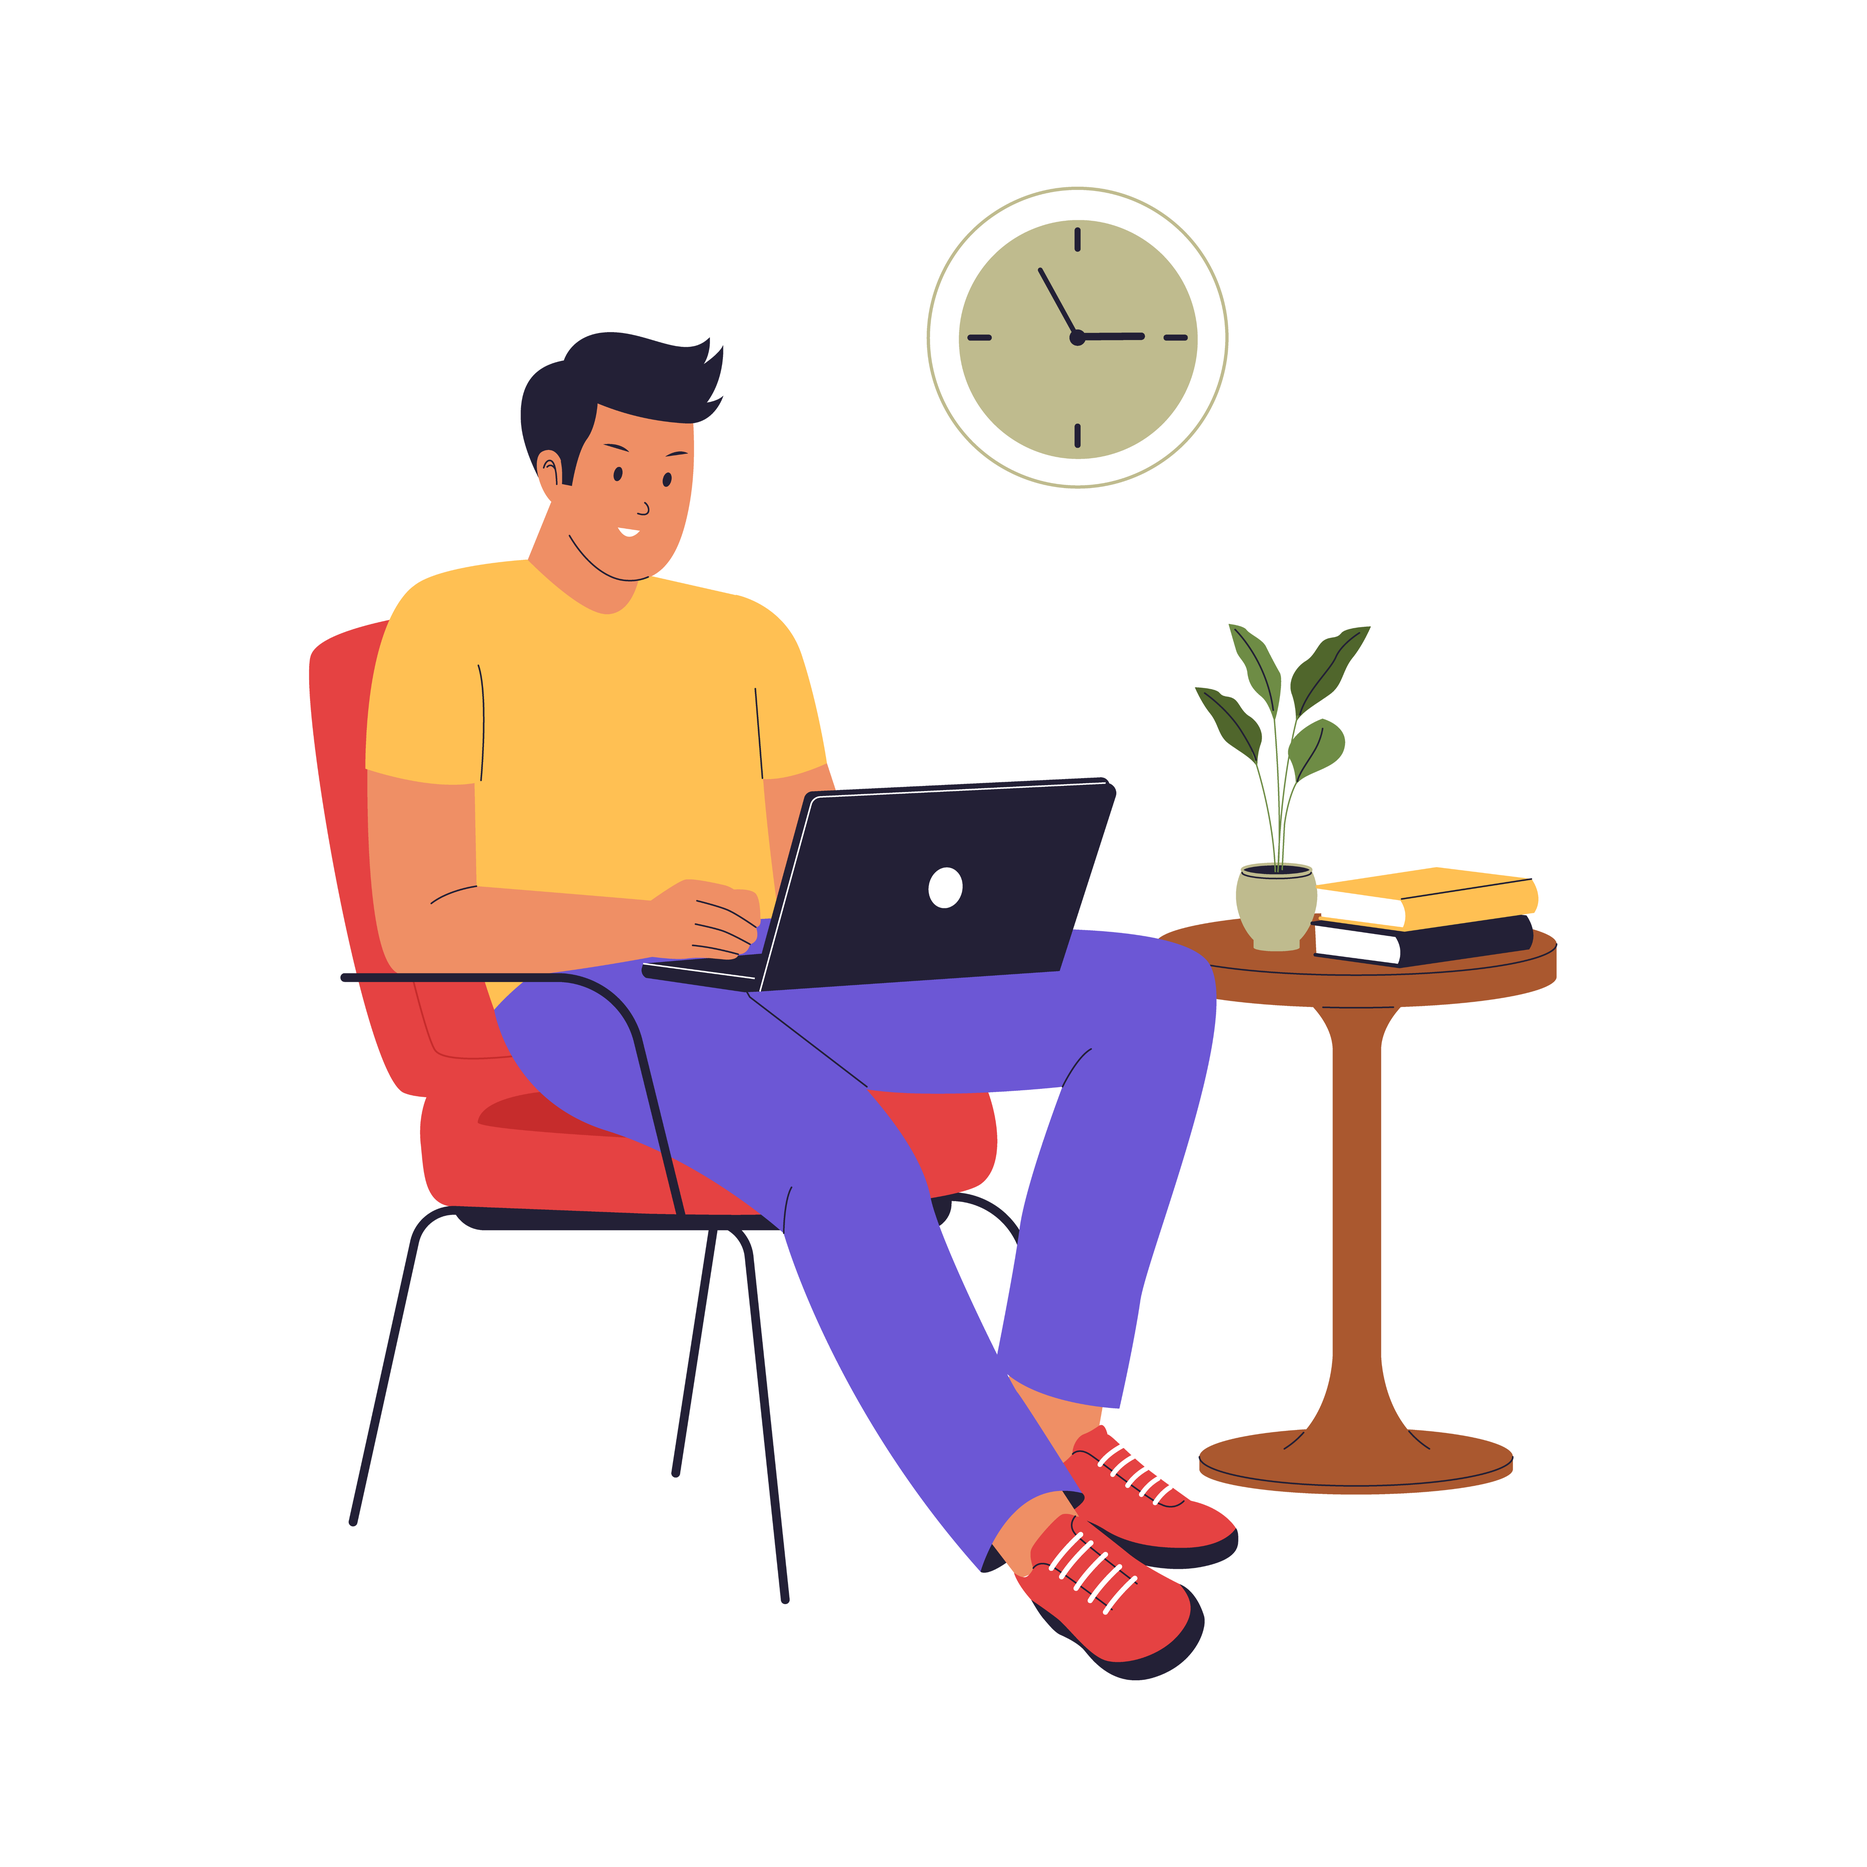
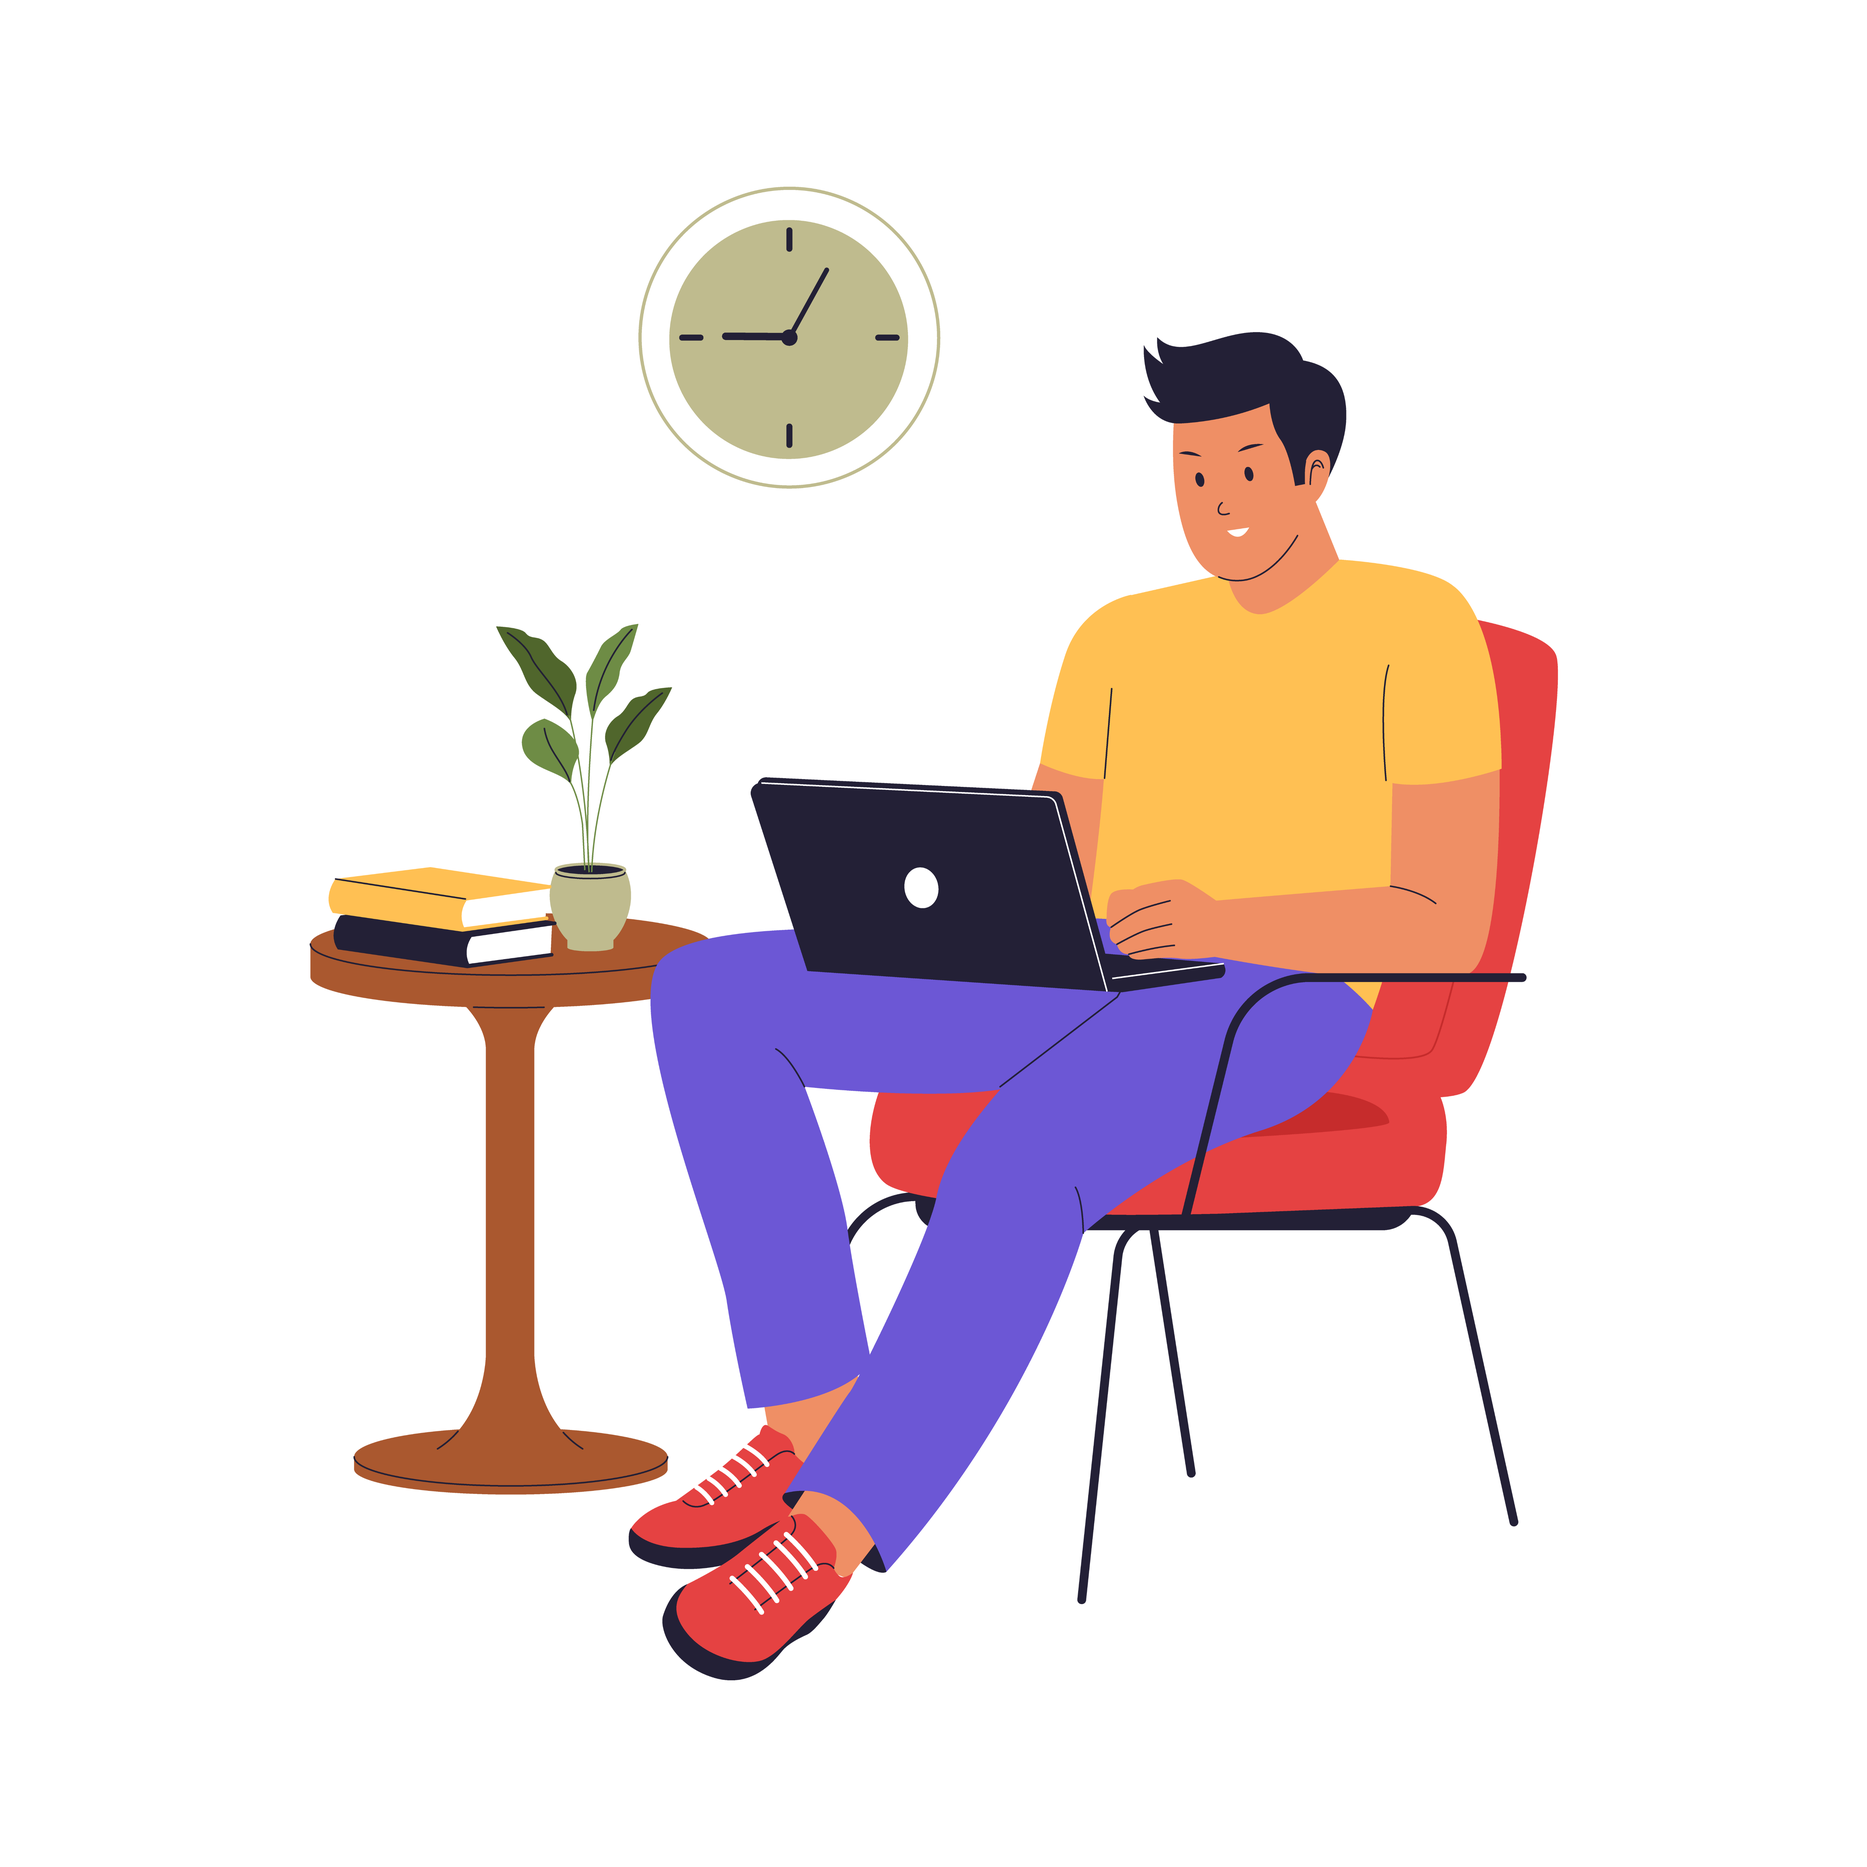
Refactor components and styles for improved readability and consistency

Changed region(s): [[0.156, 0.0936, 0.8424, 0.9048], [0.468, 0.468, 0.5304, 0.4992]]

diff --git a/src/components/navbar.tsx b/src/components/navbar.tsx
@@ -1,9 +1,5 @@
-"use client";
-
 import Image from "next/image";
 import Link from "next/link";
-import { usePathname } from "next/navigation";
-import { useState } from "react";
 
 const navLinks = [
   { name: "Home", href: "/" },
@@ -16,95 +12,49 @@ const navLinks = [
 ];
 
 export default function Navbar() {
-  const pathname = usePathname();
-  const [openPath, setOpenPath] = useState<string | null>(null);
-  const isOpen = openPath === pathname;
-
-  const toggleMenu = () => {
-    setOpenPath((current) => (current === pathname ? null : pathname));
-  };
-
+  // Server-safe: no client hooks or `window` usage. Mobile toggle uses a CSS checkbox.
   return (
     <header className="sticky top-0 z-50 border-b border-slate-200 bg-white/95 backdrop-blur">
       <div className="mx-auto flex w-full max-w-7xl items-center justify-between px-6 py-5">
         {/* Logo */}
         <Link href="/" className="flex items-center">
-          <Image
-            src="/logo2.png"
-            alt="BlogNest Logo"
-            width={70}
-            height={70}
-            className="h-16 w-16"
-          />
+          <Image src="/logo2.png" alt="BlogNest Logo" width={70} height={70} className="h-16 w-16" />
         </Link>
 
         {/* navbar */}
         <nav className="hidden items-center gap-10 md:flex">
-          {navLinks.map((link) => {
-            const isActive =
-              pathname === link.href ||
-              (link.href !== "/" && pathname.startsWith(link.href));
-
-            return (
-              <Link
-                key={link.name}
-                href={link.href}
-                className={`relative inline-flex flex-col items-center text-sm font-medium transition-colors after:absolute after:-bottom-1 after:left-0 after:h-0.5 after:w-full after:origin-left after:scale-x-0 after:bg-[#89a8d0] after:content-[''] after:transition-transform ${
-                  isActive
-                    ? "text-[#0f3b93] after:scale-x-100"
-                    : "text-slate-600 hover:text-[#0f3b93] hover:after:scale-x-100"
-                }`}
-              >
-                {link.name}
-              </Link>
-            );
-          })}
+          {navLinks.map((link) => (
+            <Link
+              key={link.name}
+              href={link.href}
+              className="relative inline-flex flex-col items-center text-sm font-medium transition-colors after:absolute after:-bottom-1 after:left-0 after:h-0.5 after:w-full after:origin-left after:scale-x-0 after:bg-[#89a8d0] after:transition-transform after:content-[''] text-slate-600 hover:text-[#0f3b93] hover:after:scale-x-100"
+            >
+              {link.name}
+            </Link>
+          ))}
         </nav>
 
-        {/* Mobile view navbar */}
-        <button
-          type="button"
-          className="rounded-md p-2 text-slate-700 transition-colors hover:text-[#0f3b93] md:hidden"
-          aria-label={isOpen ? "Close menu" : "Open menu"}
-          aria-controls="mobile-nav"
-          aria-expanded={isOpen ? "true" : "false"}
-          onClick={toggleMenu}
-        >
-          {isOpen ? (
-            <svg className="h-6 w-6" fill="none" stroke="currentColor" viewBox="0 0 24 24">
-              <path strokeLinecap="round" strokeLinejoin="round" strokeWidth={2} d="M6 18L18 6M6 6l12 12" />
-            </svg>
-          ) : (
-            <svg className="h-6 w-6" fill="none" stroke="currentColor" viewBox="0 0 24 24">
+        {/* Mobile view navbar (CSS-only toggle) */}
+        <div className="md:hidden">
+          <input id="nav-toggle" type="checkbox" className="peer sr-only" aria-label="Toggle navigation menu" />
+          <label htmlFor="nav-toggle" className="rounded-md p-2 text-slate-700 transition-colors hover:text-[#0f3b93] inline-flex items-center" aria-hidden>
+            <svg className="h-6 w-6 peer-checked:hidden" fill="none" stroke="currentColor" viewBox="0 0 24 24">
               <path strokeLinecap="round" strokeLinejoin="round" strokeWidth={2} d="M4 6h16M4 12h16M4 18h16" />
             </svg>
-          )}
-        </button>
+            <svg className="hidden h-6 w-6 peer-checked:block" fill="none" stroke="currentColor" viewBox="0 0 24 24">
+              <path strokeLinecap="round" strokeLinejoin="round" strokeWidth={2} d="M6 18L18 6M6 6l12 12" />
+            </svg>
+          </label>
+        </div>
       </div>
 
-      <div
-        className={`md:hidden transition-[max-height,opacity] duration-300 ease-out ${
-          isOpen ? "max-h-96 opacity-100" : "max-h-0 opacity-0"
-        } overflow-hidden border-b border-slate-200 bg-[#f5f2fb]`}
-      >
-        <nav id="mobile-nav" aria-hidden={!isOpen} className="flex flex-col gap-4 px-8 pb-6 pt-4">
-          {navLinks.map((link) => {
-            const isActive =
-              pathname === link.href ||
-              (link.href !== "/" && pathname.startsWith(link.href));
-
-            return (
-              <Link
-                key={link.name}
-                href={link.href}
-                className={`text-base font-medium ${
-                  isActive ? "text-[#0f3b93]" : "text-slate-600 hover:text-[#0f3b93]"
-                }`}
-              >
-                {link.name}
-              </Link>
-            );
-          })}
+      <div className="transition-[max-height,opacity] duration-300 ease-out md:hidden max-h-0 opacity-0 peer-checked:max-h-96 peer-checked:opacity-100 overflow-hidden border-b border-slate-200 bg-[#f5f2fb]">
+        <nav id="mobile-nav" aria-hidden className="flex flex-col gap-4 px-8 pt-4 pb-6">
+          {navLinks.map((link) => (
+            <Link key={link.name} href={link.href} className="text-base font-medium text-slate-600 hover:text-[#0f3b93]">
+              {link.name}
+            </Link>
+          ))}
         </nav>
       </div>
     </header>

diff --git a/src/components/mdx-components.tsx b/src/components/mdx-components.tsx
@@ -1,0 +1,41 @@
+import type { MDXComponents } from "mdx/types";
+import Image from "next/image";
+
+export function getMDXComponents(components: MDXComponents = {}): MDXComponents {
+  return {
+    h1: ({ children }) => <h1 className="mt-8 mb-6 text-4xl font-bold tracking-tight text-gray-900">{children}</h1>,
+    h2: ({ children }) => <h2 className="mt-10 mb-4 text-2xl font-semibold text-gray-800 border-b pb-2">{children}</h2>,
+    h3: ({ children }) => <h3 className="mt-6 mb-3 text-xl font-semibold text-gray-700">{children}</h3>,
+    p: ({ children }) => <p className="mb-5 leading-7 text-gray-700">{children}</p>,
+    ul: ({ children }) => <ul className="mb-5 ml-6 list-disc space-y-2 text-gray-700">{children}</ul>,
+    ol: ({ children }) => <ol className="mb-5 ml-6 list-decimal space-y-2 text-gray-700">{children}</ol>,
+    li: ({ children }) => <li className="leading-7">{children}</li>,
+    blockquote: ({ children }) => (
+      <blockquote className="my-6 border-l-4 border-blue-500 bg-blue-50 px-4 py-3 italic text-gray-700">{children}</blockquote>
+    ),
+    a: ({ href, children }) => (
+      <a href={href} className="font-medium text-blue-600 underline underline-offset-4 hover:text-blue-800">{children}</a>
+    ),
+    code: ({ children }) => <code className="rounded bg-gray-100 px-1.5 py-0.5 font-mono text-sm text-gray-800">{children}</code>,
+    pre: ({ children }) => <pre className="my-6 overflow-x-auto rounded-lg bg-gray-900 p-4 text-sm text-gray-100">{children}</pre>,
+    hr: () => <hr className="my-10 border-t border-gray-300" />,
+    img: ({ src, alt }) => (
+      <div className="my-8 rounded-xl shadow-md overflow-hidden">
+        <Image src={src ?? ""} alt={alt ?? ""} width={800} height={500} className="w-full h-auto object-cover" />
+      </div>
+    ),
+    table: ({ children }) => (
+      <div className="my-8 overflow-x-auto">
+        <table className="w-full border-collapse border border-gray-300">{children}</table>
+      </div>
+    ),
+    th: ({ children }) => <th className="border border-gray-300 bg-gray-100 px-4 py-2 text-left font-semibold text-gray-800">{children}</th>,
+    td: ({ children }) => <td className="border border-gray-300 px-4 py-2 text-gray-700">{children}</td>,
+    ...components,
+  };
+}
+
+export const mdxComponents = getMDXComponents();
+
+// Backwards-compatible alias
+export { getMDXComponents as useMDXComponents };

diff --git a/src/lib/mdx.ts b/src/lib/mdx.ts
@@ -28,9 +28,7 @@ export interface BlogMeta {
 // Get all categories
 export function getCategories(): string[] {
   const categories = fs.readdirSync(contentDirectory);
-  return categories.filter((cat) =>
-    fs.statSync(path.join(contentDirectory, cat)).isDirectory()
-  );
+  return categories.filter((cat) => fs.statSync(path.join(contentDirectory, cat)).isDirectory());
 }
 
 // Get all posts for a specific category
@@ -109,4 +107,17 @@ export function getPostSlugs(category: string): string[] {
 
   const files = fs.readdirSync(categoryPath).filter((file) => file.endsWith(".mdx"));
   return files.map((file) => file.replace(".mdx", ""));
+}
+
+// Resolve post image path with fallback
+export function resolvePostImagePath(image: string | undefined, category: string): string {
+  if (image) {
+    const trimmed = image.startsWith("/") ? image.slice(1) : image;
+    const filePath = path.join(process.cwd(), "public", trimmed);
+    if (fs.existsSync(filePath)) {
+      return image;
+    }
+  }
+
+  return "/hero.png";
 }

diff --git a/src/app/education/[slug]/page.tsx b/src/app/education/[slug]/page.tsx
@@ -1,8 +1,7 @@
 import { notFound } from "next/navigation";
 import Navbar from "@/components/navbar";
 import Footer from "@/components/footer";
-import { getPostBySlug, getPostSlugs } from "@/lib/mdx";
-import { resolvePostImagePath } from "@/lib/postImage";
+import { getPostBySlug, getPostSlugs, resolvePostImagePath } from "@/lib/mdx";
 import { MDXRemote } from "next-mdx-remote/rsc";
 import Image from "next/image";
 import Link from "next/link";

diff --git a/src/app/food/[slug]/page.tsx b/src/app/food/[slug]/page.tsx
@@ -1,8 +1,7 @@
 import { notFound } from "next/navigation";
 import Navbar from "@/components/navbar";
 import Footer from "@/components/footer";
-import { getPostBySlug, getPostSlugs } from "@/lib/mdx";
-import { resolvePostImagePath } from "@/lib/postImage";
+import { getPostBySlug, getPostSlugs, resolvePostImagePath } from "@/lib/mdx";
 import { MDXRemote } from "next-mdx-remote/rsc";
 import Image from "next/image";
 import Link from "next/link";

diff --git a/src/app/lifestyle/[slug]/page.tsx b/src/app/lifestyle/[slug]/page.tsx
@@ -1,8 +1,7 @@
 import { notFound } from "next/navigation";
 import Navbar from "@/components/navbar";
 import Footer from "@/components/footer";
-import { getPostBySlug, getPostSlugs } from "@/lib/mdx";
-import { resolvePostImagePath } from "@/lib/postImage";
+import { getPostBySlug, getPostSlugs, resolvePostImagePath } from "@/lib/mdx";
 import { MDXRemote } from "next-mdx-remote/rsc";
 import Image from "next/image";
 import Link from "next/link";

diff --git a/src/app/news&trends/[slug]/page.tsx b/src/app/news&trends/[slug]/page.tsx
@@ -1,8 +1,7 @@
 import { notFound } from "next/navigation";
 import Navbar from "@/components/navbar";
 import Footer from "@/components/footer";
-import { getPostBySlug, getPostSlugs } from "@/lib/mdx";
-import { resolvePostImagePath } from "@/lib/postImage";
+import { getPostBySlug, getPostSlugs, resolvePostImagePath } from "@/lib/mdx";
 import { MDXRemote } from "next-mdx-remote/rsc";
 import Image from "next/image";
 import Link from "next/link";

diff --git a/src/app/technology/[slug]/page.tsx b/src/app/technology/[slug]/page.tsx
@@ -1,8 +1,7 @@
 import { notFound } from "next/navigation";
 import Navbar from "@/components/navbar";
 import Footer from "@/components/footer";
-import { getPostBySlug, getPostSlugs } from "@/lib/mdx";
-import { resolvePostImagePath } from "@/lib/postImage";
+import { getPostBySlug, getPostSlugs, resolvePostImagePath } from "@/lib/mdx";
 import { MDXRemote } from "next-mdx-remote/rsc";
 import Image from "next/image";
 import Link from "next/link";

diff --git a/src/app/travel/[slug]/page.tsx b/src/app/travel/[slug]/page.tsx
@@ -1,8 +1,7 @@
 import { notFound } from "next/navigation";
 import Navbar from "@/components/navbar";
 import Footer from "@/components/footer";
-import { getPostBySlug, getPostSlugs } from "@/lib/mdx";
-import { resolvePostImagePath } from "@/lib/postImage";
+import { getPostBySlug, getPostSlugs, resolvePostImagePath } from "@/lib/mdx";
 import { MDXRemote } from "next-mdx-remote/rsc";
 import Image from "next/image";
 import Link from "next/link";

diff --git a/src/components/blogCard.tsx b/src/components/blogCard.tsx
@@ -1,7 +1,6 @@
 import Image from "next/image";
 import Link from "next/link";
-import { BlogMeta } from "@/lib/mdx";
-import { resolvePostImagePath } from "@/lib/postImage";
+import { BlogMeta, resolvePostImagePath } from "@/lib/mdx";
 
 interface BlogCardProps {
   post: BlogMeta;

diff --git a/src/components/footer.tsx b/src/components/footer.tsx
@@ -100,6 +100,7 @@ export default function Footer() {
             © BlogNest 2025 by Kushari Desilva | All Right Reserved
           </p>
         </div>
+        
       </div>
     </footer>
   );
